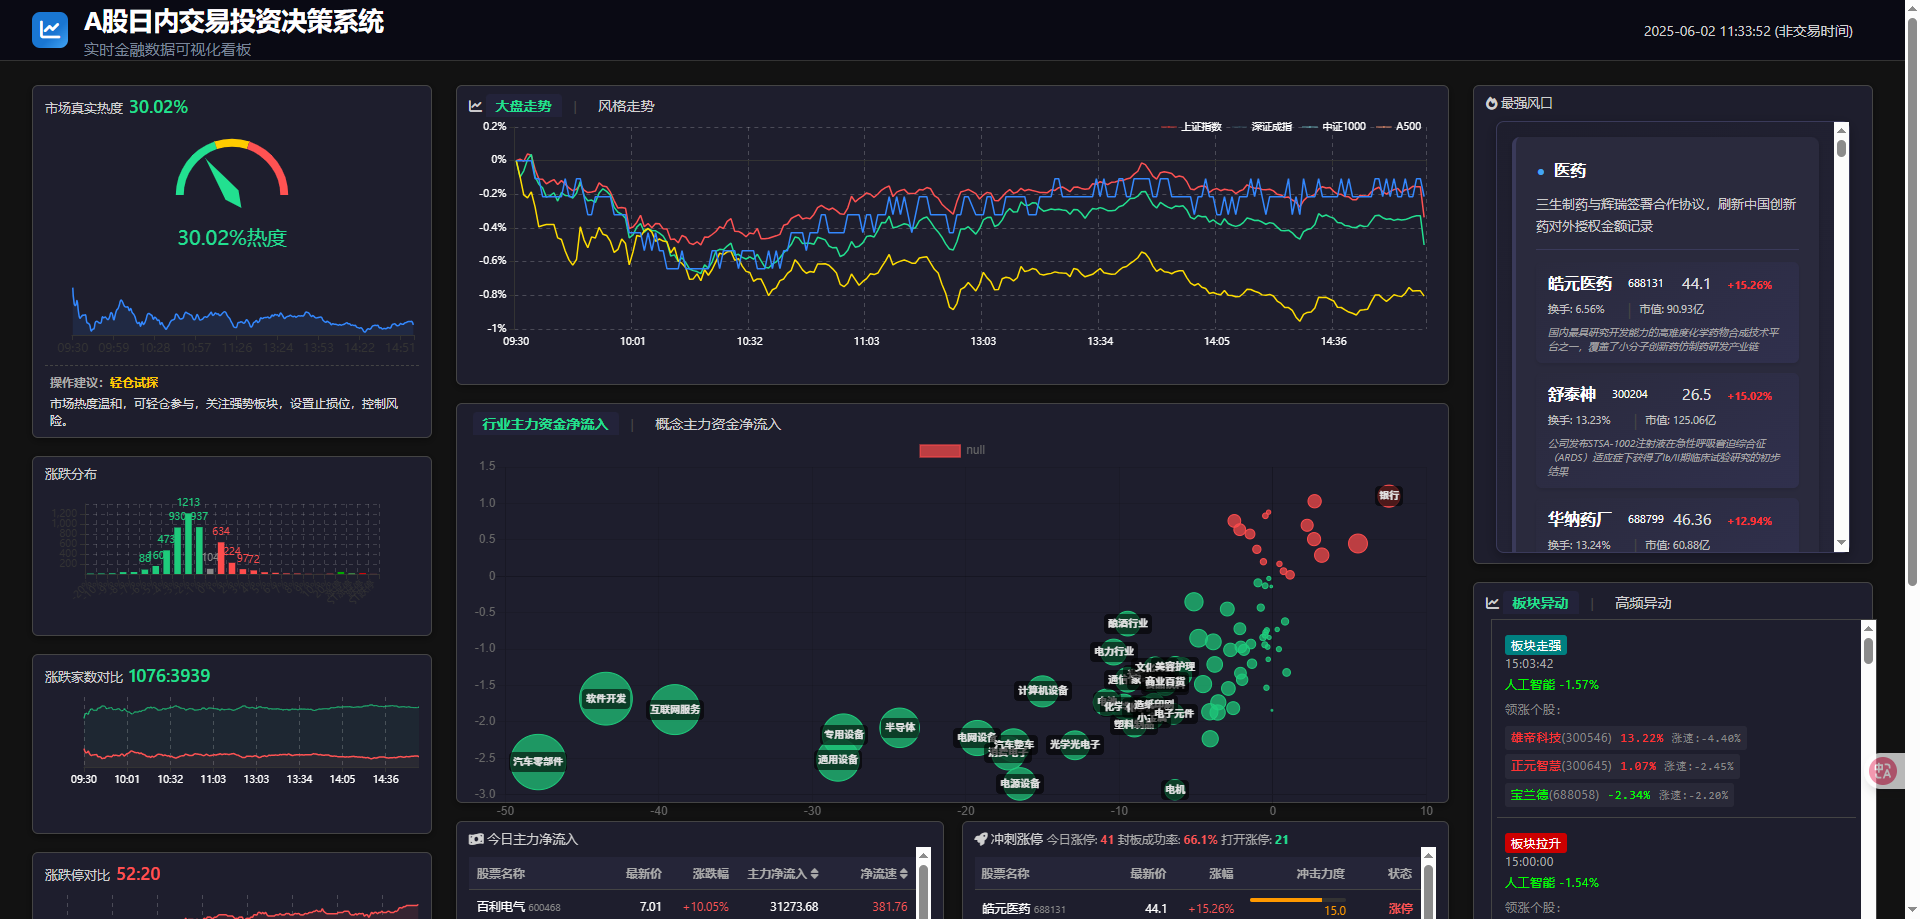
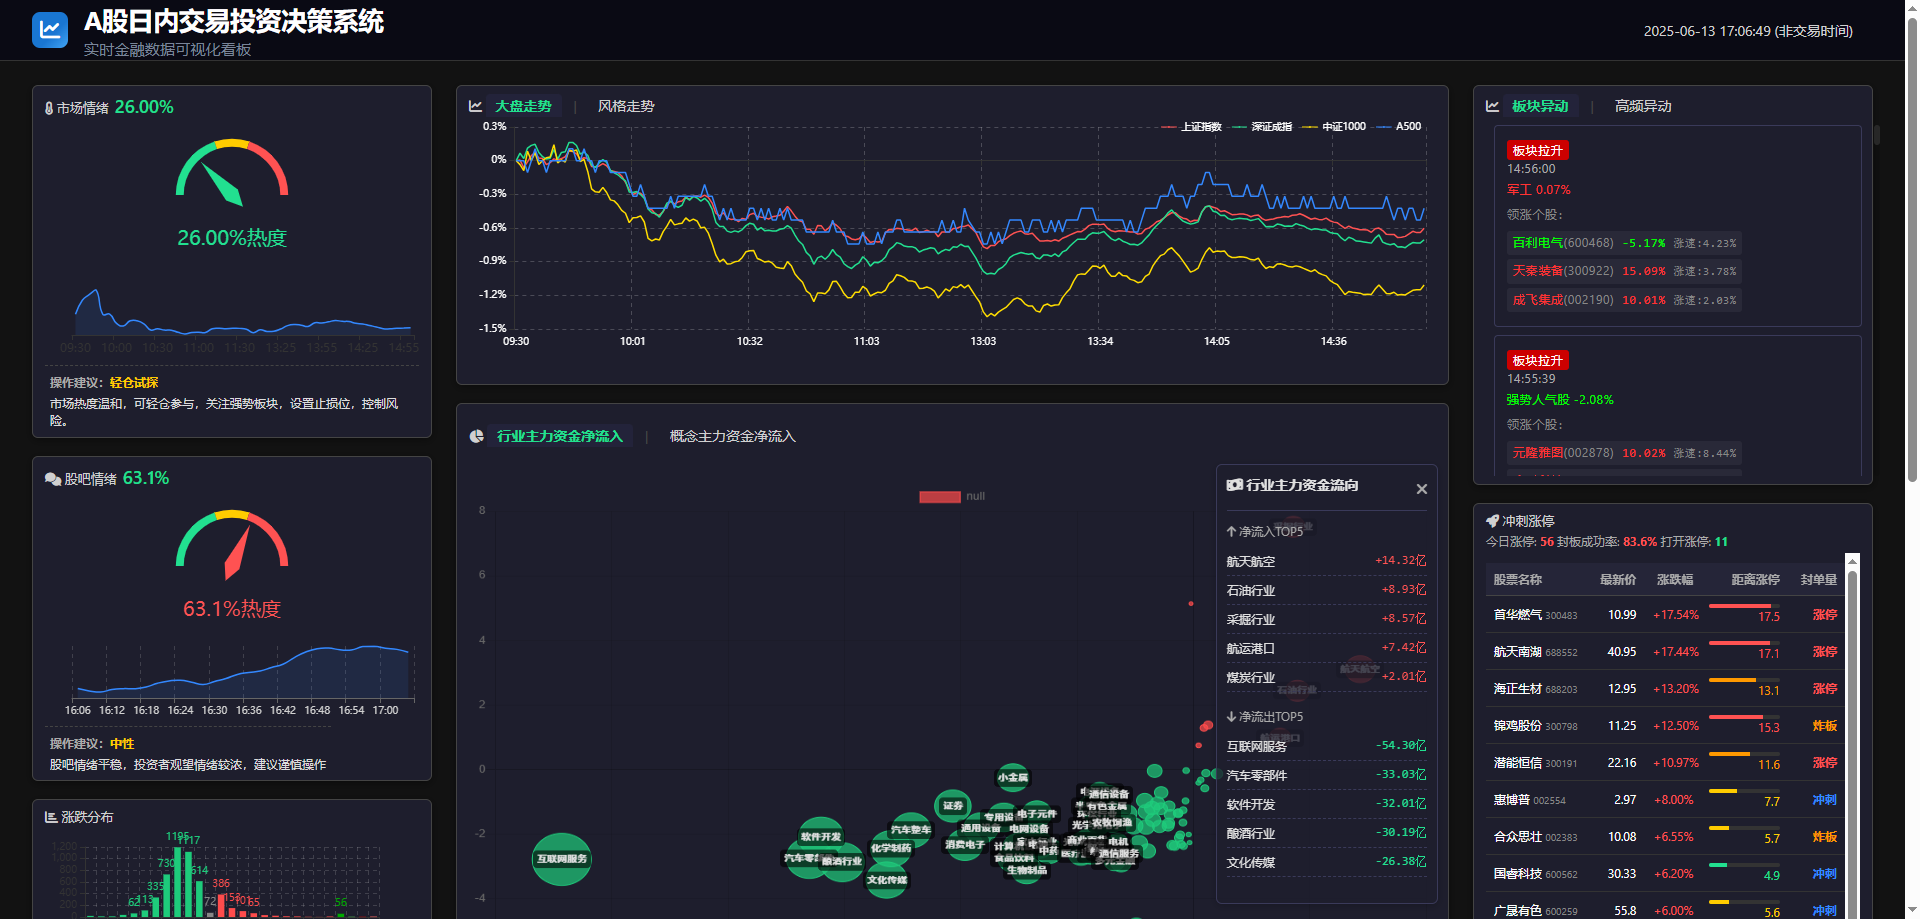
Initial commit

diff --git a/main.html b/main.html
@@ -287,6 +287,82 @@
             font-size: 11px;
             font-family: Consolas, monospace;
         }
+        /* Floating fund flow layer styles */
+        .floating-fund-flow {
+            position: absolute;
+            right: 10px;
+            top: 60px;
+            width: 200px;
+            background: rgba(30, 30, 45, 0.8);
+            border-radius: 6px;
+            box-shadow: 0 2px 8px rgba(0,0,0,0.2);
+            border: 1px solid #3a3a5a;
+            z-index: 10;
+            padding: 10px;
+        }
+        
+        .floating-concept-flow {
+            position: absolute;
+            right: 10px;
+            top: 60px;
+            width: 200px;
+            background: rgba(30, 30, 45, 0.8);
+            border-radius: 6px;
+            box-shadow: 0 2px 8px rgba(0,0,0,0.2);
+            border: 1px solid #3a3a5a;
+            z-index: 10;
+            padding: 10px;
+        }
+        .fund-flow-card {
+            position: relative; /* Make card a positioning context */
+        }
+        .floating-fund-flow-header {
+            display: flex;
+            justify-content: space-between;
+            align-items: center;
+            margin-bottom: 12px;
+            padding-bottom: 8px;
+            border-bottom: 1px solid #3a3a5a;
+        }
+        .floating-fund-flow-title {
+            font-size: 14px;
+            font-weight: bold;
+            color: #e0e0e0;
+            margin-bottom: 8px;
+        }
+        .floating-fund-flow-close {
+            cursor: pointer;
+            color: #aaa;
+            font-size: 16px;
+        }
+        .floating-fund-flow-section {
+            margin-bottom: 16px;
+        }
+        .floating-fund-flow-section-title {
+            font-size: 12px;
+            color: #aaa;
+            margin-bottom: 8px;
+        }
+        .floating-fund-flow-item {
+            display: flex;
+            justify-content: space-between;
+            padding: 6px 0;
+            border-bottom: 1px dashed #3a3a5a;
+        }
+        .floating-fund-flow-name {
+            font-size: 12px;
+            color: #e0e0e0;
+        }
+        .floating-fund-flow-value {
+            font-size: 12px;
+            font-family: Consolas, monospace;
+        }
+        .floating-fund-flow-value.positive {
+            color: #ff5252;
+        }
+        .floating-fund-flow-value.negative {
+            color: #22e090;
+        }
         /* Enhanced styles for hotspot interpretation card */
         .plate-container-hotspot {
             margin: 10px;
@@ -646,6 +722,58 @@
     </div>
     <canvas id="industryChart" class="tab-pane" style="width: 100%; height: calc(100% - 40px); display: block;"></canvas>
     <canvas id="conceptChart" class="tab-pane" style="width: 100%; height: calc(100% - 40px); display: none;"></canvas>
+    
+    <!-- Industry floating fund flow layer -->
+    <div class="floating-fund-flow" id="floatingFundFlow" style="right: 10px;">
+        <div class="floating-fund-flow-header">
+                <div class="floating-fund-flow-title">
+                    <i class="fas fa-money-bill-wave"></i> 行业主力资金流向
+                </div>
+            <div class="floating-fund-flow-close" id="floatingFundFlowClose">
+                <i class="fas fa-times"></i>
+            </div>
+        </div>
+        
+        <div class="floating-fund-flow-section">
+            <div class="floating-fund-flow-section-title">
+                <i class="fas fa-arrow-up"></i> 净流入TOP5
+            </div>
+            <div id="topInflowsList"></div>
+        </div>
+        
+        <div class="floating-fund-flow-section">
+            <div class="floating-fund-flow-section-title">
+                <i class="fas fa-arrow-down"></i> 净流出TOP5
+            </div>
+            <div id="topOutflowsList"></div>
+        </div>
+    </div>
+
+    <!-- Concept floating fund flow layer -->
+    <div class="floating-fund-flow" id="floatingConceptFlow" style="left: 10px;">
+        <div class="floating-fund-flow-header">
+                <div class="floating-fund-flow-title">
+                    <i class="fas fa-lightbulb"></i> 概念主力资金流向
+                </div>
+            <div class="floating-fund-flow-close" id="floatingConceptFlowClose">
+                <i class="fas fa-times"></i>
+            </div>
+        </div>
+        
+        <div class="floating-fund-flow-section">
+            <div class="floating-fund-flow-section-title">
+                <i class="fas fa-arrow-up"></i> 净流入TOP5
+            </div>
+            <div id="topConceptInflowsList"></div>
+        </div>
+        
+        <div class="floating-fund-flow-section">
+            <div class="floating-fund-flow-section-title">
+                <i class="fas fa-arrow-down"></i> 净流出TOP5
+            </div>
+            <div id="topConceptOutflowsList"></div>
+        </div>
+    </div>
 </div>
 
             <!-- 将最强风口卡片移到这里 -->
@@ -752,6 +880,8 @@
 </div>
         </div>
     </div>
+
+    <!-- Floating fund flow layer moved inside fund-flow-card -->
 
     <script type="text/javascript">
         // Update current time with full date and market status
@@ -1265,6 +1395,57 @@
         window.addEventListener('resize', function() {
             gubaSentimentChart.resize();
         });
+
+        // Update floating fund flow layer
+        function updateFloatingFundFlow(data) {
+            // Sort by net inflow (descending)
+            const sorted = [...data].sort((a, b) => b['主力净流入_亿'] - a['主力净流入_亿']);
+            
+            // Get top 5 inflows (positive values)
+            const topInflows = sorted.filter(item => item['主力净流入_亿'] > 0).slice(0, 5);
+            
+            // Get top 5 outflows (negative values, sorted by most negative)
+            const topOutflows = sorted.filter(item => item['主力净流入_亿'] < 0)
+                                    .sort((a, b) => a['主力净流入_亿'] - b['主力净流入_亿'])
+                                    .slice(0, 5);
+            
+            // Update inflows list
+            const inflowsList = document.getElementById('topInflowsList');
+            inflowsList.innerHTML = topInflows.map(item => `
+                <div class="floating-fund-flow-item">
+                    <span class="floating-fund-flow-name">${item['板块名称']}</span>
+                    <span class="floating-fund-flow-value positive">+${item['主力净流入_亿'].toFixed(2)}亿</span>
+                </div>
+            `).join('');
+            
+            // Update outflows list
+            const outflowsList = document.getElementById('topOutflowsList');
+            outflowsList.innerHTML = topOutflows.map(item => `
+                <div class="floating-fund-flow-item">
+                    <span class="floating-fund-flow-name">${item['板块名称']}</span>
+                    <span class="floating-fund-flow-value negative">${item['主力净流入_亿'].toFixed(2)}亿</span>
+                </div>
+            `).join('');
+        }
+
+        // Close button handler
+        document.getElementById('floatingFundFlowClose').addEventListener('click', function() {
+            document.getElementById('floatingFundFlow').style.display = 'none';
+        });
+
+        // Initial update with sample data (will be replaced with real data)
+        updateFloatingFundFlow([
+            {"板块名称":"电子元件","主力净流入_亿":12.5},
+            {"板块名称":"医药制造","主力净流入_亿":8.7},
+            {"板块名称":"银行","主力净流入_亿":-3.2},
+            {"板块名称":"房地产","主力净流入_亿":-5.8},
+            {"板块名称":"汽车制造","主力净流入_亿":6.3},
+            {"板块名称":"钢铁","主力净流入_亿":-2.1},
+            {"板块名称":"煤炭","主力净流入_亿":3.9},
+            {"板块名称":"食品饮料","主力净流入_亿":7.2},
+            {"板块名称":"计算机","主力净流入_亿":9.8},
+            {"板块名称":"通信","主力净流入_亿":5.4}
+        ]);
     </script>
     <style>
 /* 修改最强风口卡片样式 */

diff --git a/js/fund-flow.js b/js/fund-flow.js
@@ -74,6 +74,14 @@ function loadFundFlowCharts() {
         // dataArray[0] is industry data, dataArray[1] is concept data
         renderScatterChart(transformedDataArray[0], 'industryChart');
         renderScatterChart(transformedDataArray[1], 'conceptChart');
+        
+        // Update floating layers with data
+        if (window.updateFloatingFundFlow) {
+            window.updateFloatingFundFlow(transformedDataArray[0]); // Industry data
+        }
+        if (window.updateFloatingConceptFlow) {
+            window.updateFloatingConceptFlow(transformedDataArray[1]); // Concept data
+        }
     })
     .catch(function(error) {
         console.error('Error loading fund flow data:', error);
@@ -281,8 +289,128 @@ function renderScatterChart(data, canvasId) {
     });
 }
 
-// Initial data load
-loadFundFlowCharts();
+// Update concept floating fund flow layer
+function updateFloatingConceptFlow(data) {
+    // Sort by net inflow (descending)
+    const sorted = [...data].sort((a, b) => b['主力净流入_亿'] - a['主力净流入_亿']);
+    
+    // Get top 5 inflows (positive values)
+    const topInflows = sorted.filter(item => item['主力净流入_亿'] > 0).slice(0, 5);
+    
+    // Get top 5 outflows (negative values, sorted by most negative)
+    const topOutflows = sorted.filter(item => item['主力净流入_亿'] < 0)
+                            .sort((a, b) => a['主力净流入_亿'] - b['主力净流入_亿'])
+                            .slice(0, 5);
+    
+    // Update inflows list
+    const inflowsList = document.getElementById('topConceptInflowsList');
+    inflowsList.innerHTML = topInflows.map(item => `
+        <div class="floating-fund-flow-item">
+            <span class="floating-fund-flow-name">${item['板块名称']}</span>
+            <span class="floating-fund-flow-value positive">+${item['主力净流入_亿'].toFixed(2)}亿</span>
+        </div>
+    `).join('');
+    
+    // Update outflows list
+    const outflowsList = document.getElementById('topConceptOutflowsList');
+    outflowsList.innerHTML = topOutflows.map(item => `
+        <div class="floating-fund-flow-item">
+            <span class="floating-fund-flow-name">${item['板块名称']}</span>
+            <span class="floating-fund-flow-value negative">${item['主力净流入_亿'].toFixed(2)}亿</span>
+        </div>
+    `).join('');
+}
 
-// Refresh data every minute (60000 milliseconds)
-setInterval(loadFundFlowCharts, 60000); 
+// Wait for DOM to be fully loaded before setting up event listeners
+document.addEventListener('DOMContentLoaded', function() {
+    // Tab switch handlers
+    const industryTabBtn = document.getElementById('industryTabBtn');
+    const conceptTabBtn = document.getElementById('conceptTabBtn');
+    const floatingFundFlow = document.getElementById('floatingFundFlow');
+    const floatingConceptFlow = document.getElementById('floatingConceptFlow');
+    const floatingFundFlowClose = document.getElementById('floatingFundFlowClose');
+    const floatingConceptFlowClose = document.getElementById('floatingConceptFlowClose');
+
+    if (industryTabBtn && conceptTabBtn && floatingFundFlow && floatingConceptFlow) {
+        // Position both floating layers in the same location (right side)
+        floatingConceptFlow.style.right = '10px';
+        floatingConceptFlow.style.left = 'auto';
+        floatingConceptFlow.style.top = '60px';
+
+        // Make both floating layers draggable
+        function makeDraggable(element) {
+            let isDragging = false;
+            let offsetX, offsetY;
+
+            element.addEventListener('mousedown', function(e) {
+                if (e.target === element || e.target.classList.contains('floating-fund-flow-header')) {
+                    isDragging = true;
+                    offsetX = e.clientX - element.getBoundingClientRect().left;
+                    offsetY = e.clientY - element.getBoundingClientRect().top;
+                    element.style.cursor = 'grabbing';
+                }
+            });
+
+            document.addEventListener('mousemove', function(e) {
+                if (!isDragging) return;
+                
+                const parentRect = element.parentElement.getBoundingClientRect();
+                let left = e.clientX - offsetX - parentRect.left;
+                let top = e.clientY - offsetY - parentRect.top;
+                
+                // Constrain to parent bounds
+                left = Math.max(0, Math.min(left, parentRect.width - element.offsetWidth));
+                top = Math.max(0, Math.min(top, parentRect.height - element.offsetHeight));
+                
+                element.style.left = left + 'px';
+                element.style.right = 'auto';
+                element.style.top = top + 'px';
+            });
+
+            document.addEventListener('mouseup', function() {
+                isDragging = false;
+                element.style.cursor = 'grab';
+            });
+        }
+
+        makeDraggable(floatingFundFlow);
+        makeDraggable(floatingConceptFlow);
+
+        // Initialize cursor style
+        floatingFundFlow.style.cursor = 'grab';
+        floatingConceptFlow.style.cursor = 'grab';
+
+        industryTabBtn.addEventListener('click', function() {
+            floatingFundFlow.style.display = 'block';
+            floatingConceptFlow.style.display = 'none';
+        });
+
+        conceptTabBtn.addEventListener('click', function() {
+            floatingFundFlow.style.display = 'none';
+            floatingConceptFlow.style.display = 'block';
+        });
+    }
+
+    if (floatingFundFlowClose) {
+        floatingFundFlowClose.addEventListener('click', function() {
+            floatingFundFlow.style.display = 'none';
+        });
+    }
+
+    if (floatingConceptFlowClose) {
+        floatingConceptFlowClose.addEventListener('click', function() {
+            floatingConceptFlow.style.display = 'none';
+        });
+    }
+
+    // Initialize visibility
+    if (floatingConceptFlow) {
+        floatingConceptFlow.style.display = 'none';
+    }
+
+    // Initial data load
+    loadFundFlowCharts();
+
+    // Refresh data every minute (60000 milliseconds)
+    setInterval(loadFundFlowCharts, 60000);
+});

diff --git a/redball.html b/redball.html
@@ -311,7 +311,7 @@
 
       function getScatterData(dm) {
 		
-			dest_url = 'http://vaserviece.10jqka.com.cn/Level2/index.php?&op=mainMonitorDetail&stockcode='+dm;
+			dest_url = 'https://vaserviece.10jqka.com.cn/Level2/index.php?&op=mainMonitorDetail&stockcode='+dm;
 			console.log('getScatterData', dest_url)
 			$.ajax({
 				url: dest_url,
@@ -590,7 +590,7 @@
 						dmt = "0." + dm;
 					}
 					
-					var url ="http://push2his.eastmoney.com/api/qt/stock/trends2/get?fields1=f1,f2,f3,f4,f5,f6,f7,f8,f9,f10,f11,f12,f13&fields2=f51,f52,f53,f54,f55,f56,f57,f58&secid=" + dmt;
+					var url ="https://push2his.eastmoney.com/api/qt/stock/trends2/get?fields1=f1,f2,f3,f4,f5,f6,f7,f8,f9,f10,f11,f12,f13&fields2=f51,f52,f53,f54,f55,f56,f57,f58&secid=" + dmt;
 					var res = [];
 					$.ajax({
 						type: "get",
